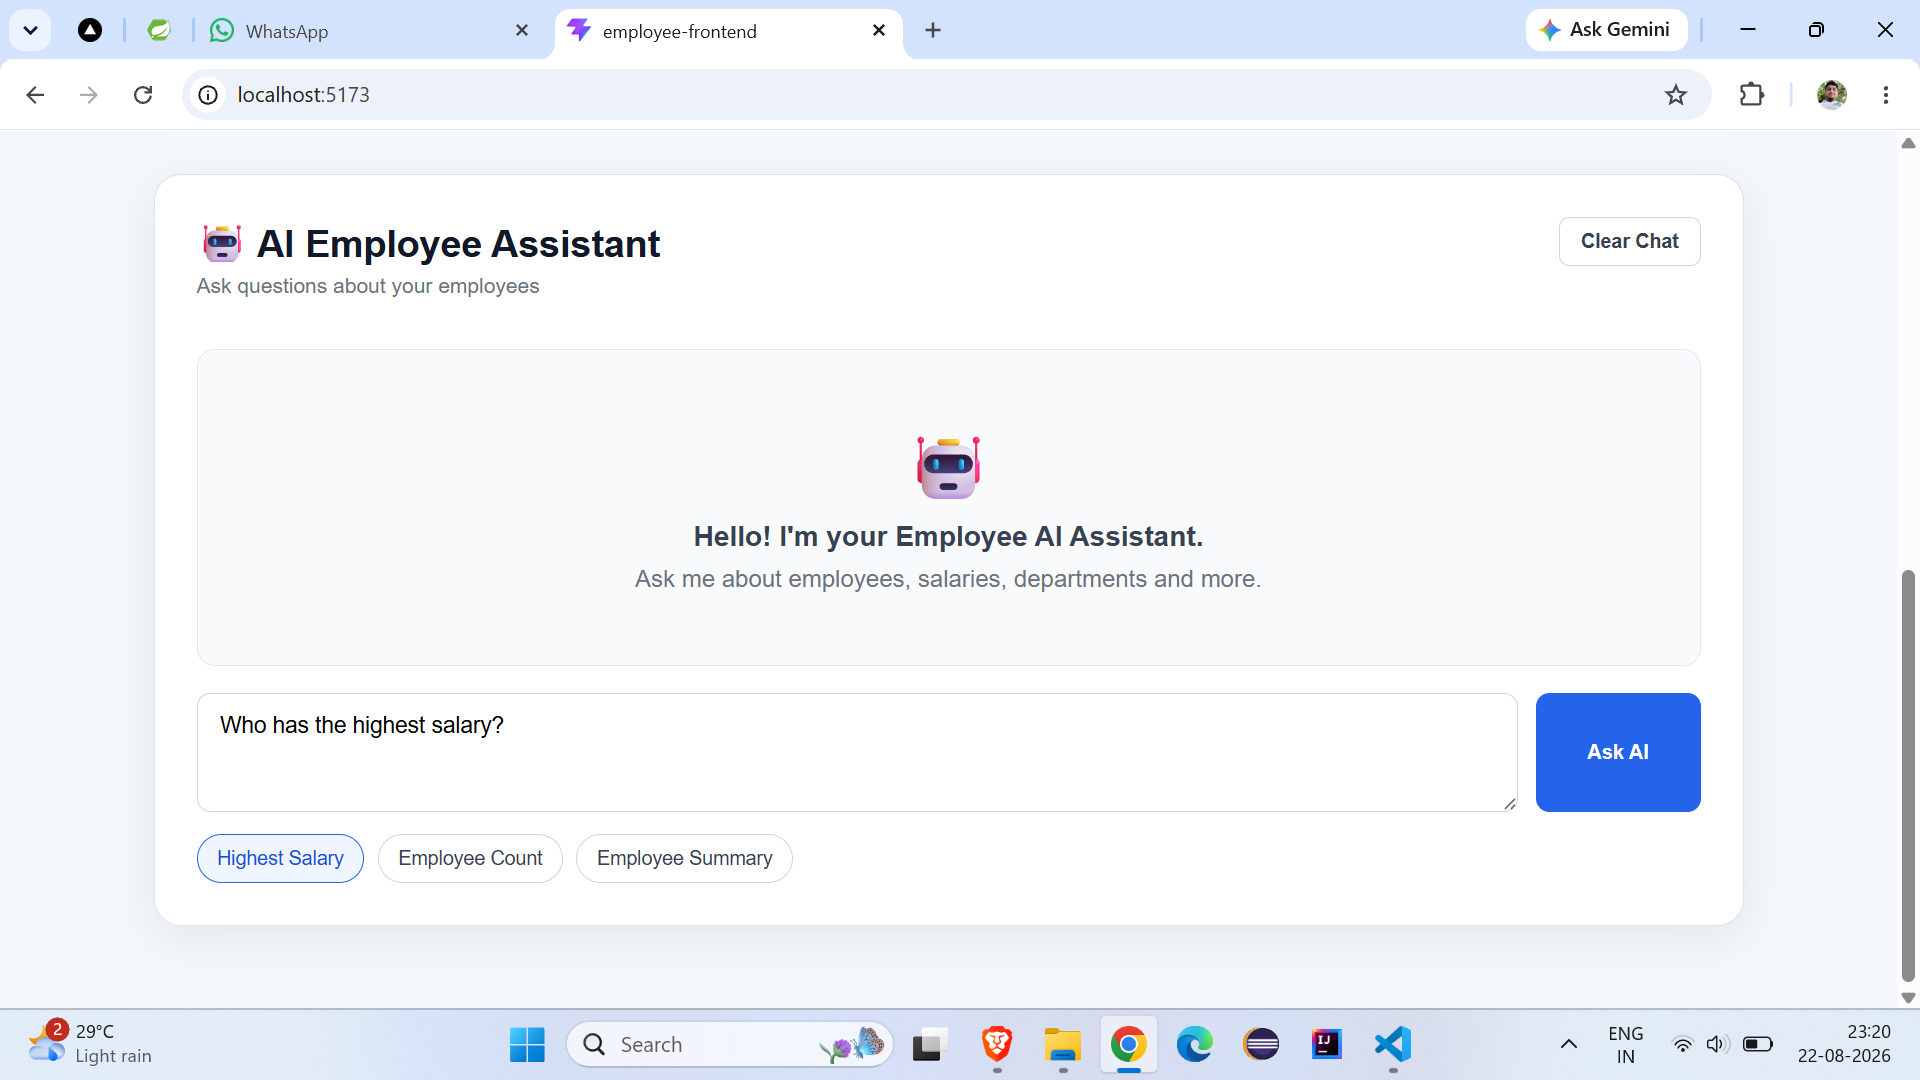
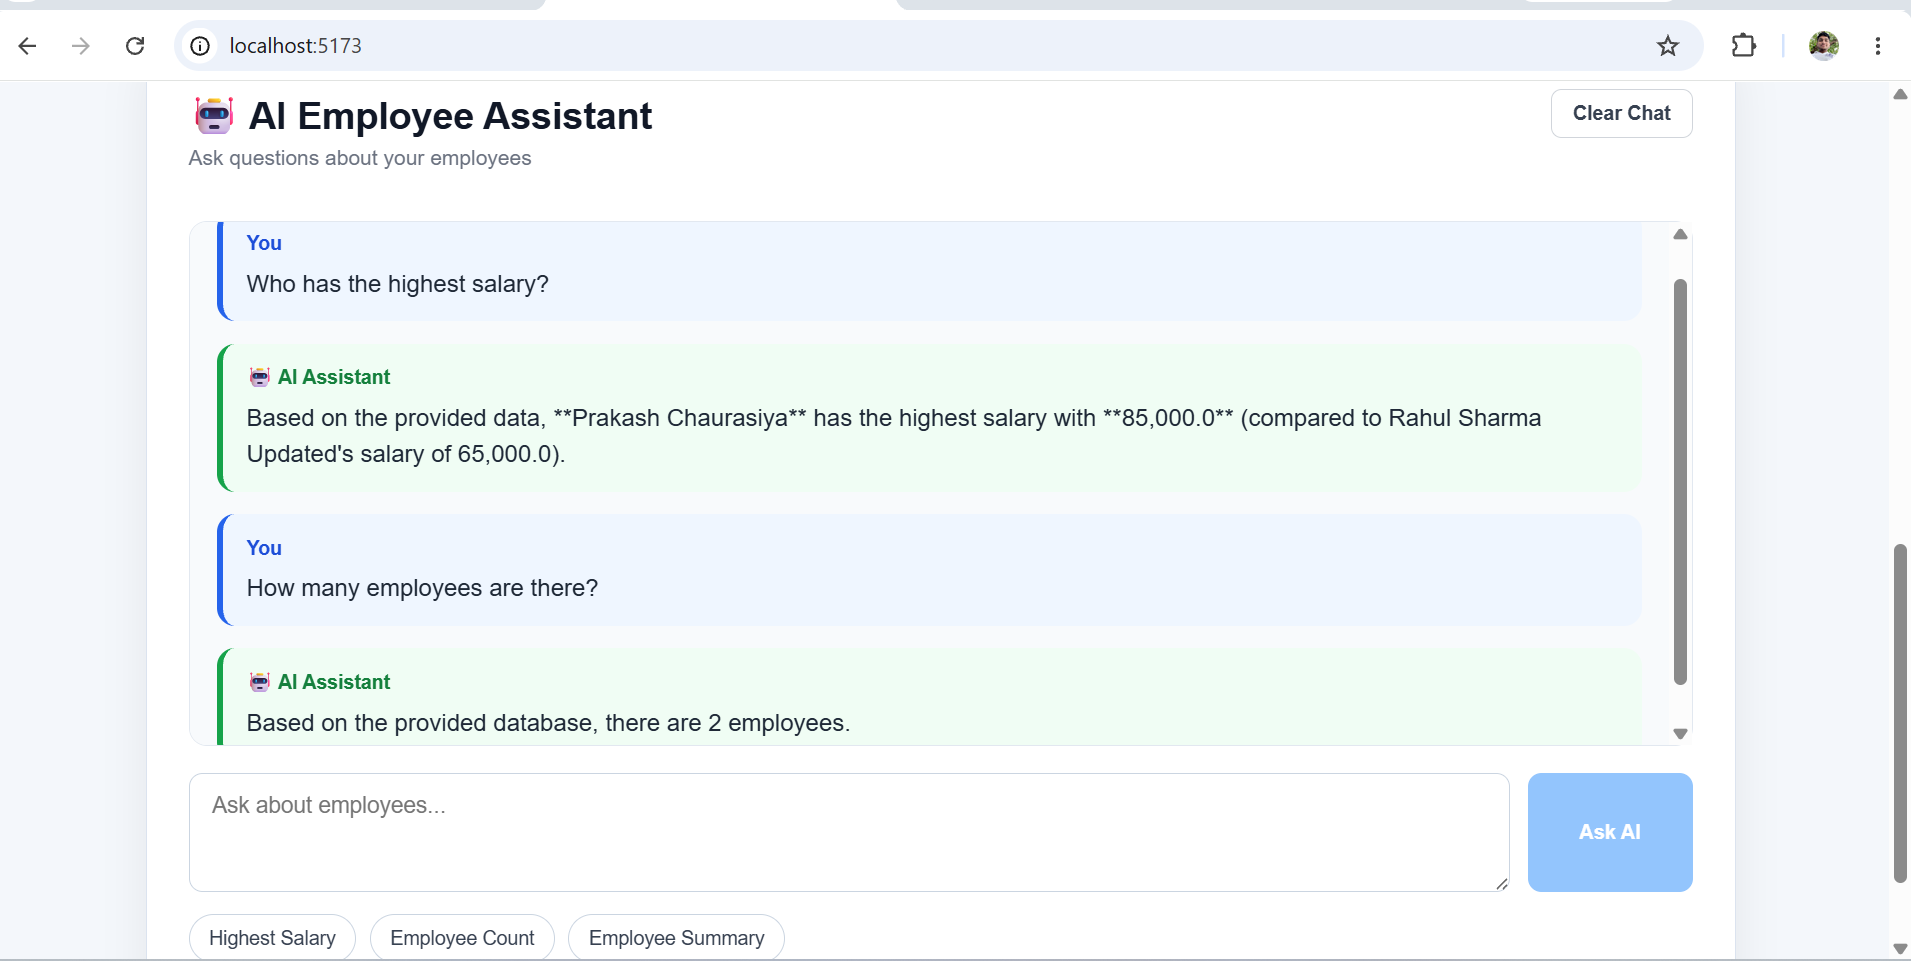
Add project screenshots

diff --git a/README.md b/README.md
@@ -13,6 +13,16 @@ The application provides complete employee CRUD operations, dashboard analytics,
 - Delete employees
 - Search employees by name, email, or department
 
+## 📸 Screenshots
+
+### Employee Management Dashboard
+
+![Employee Management Dashboard](screenshots/dashboard.png)
+
+### AI Employee Assistant
+
+![AI Employee Assistant](screenshots/ai-assistant.png)
+
 ### Dashboard
 - Total employee count
 - IT employee count
